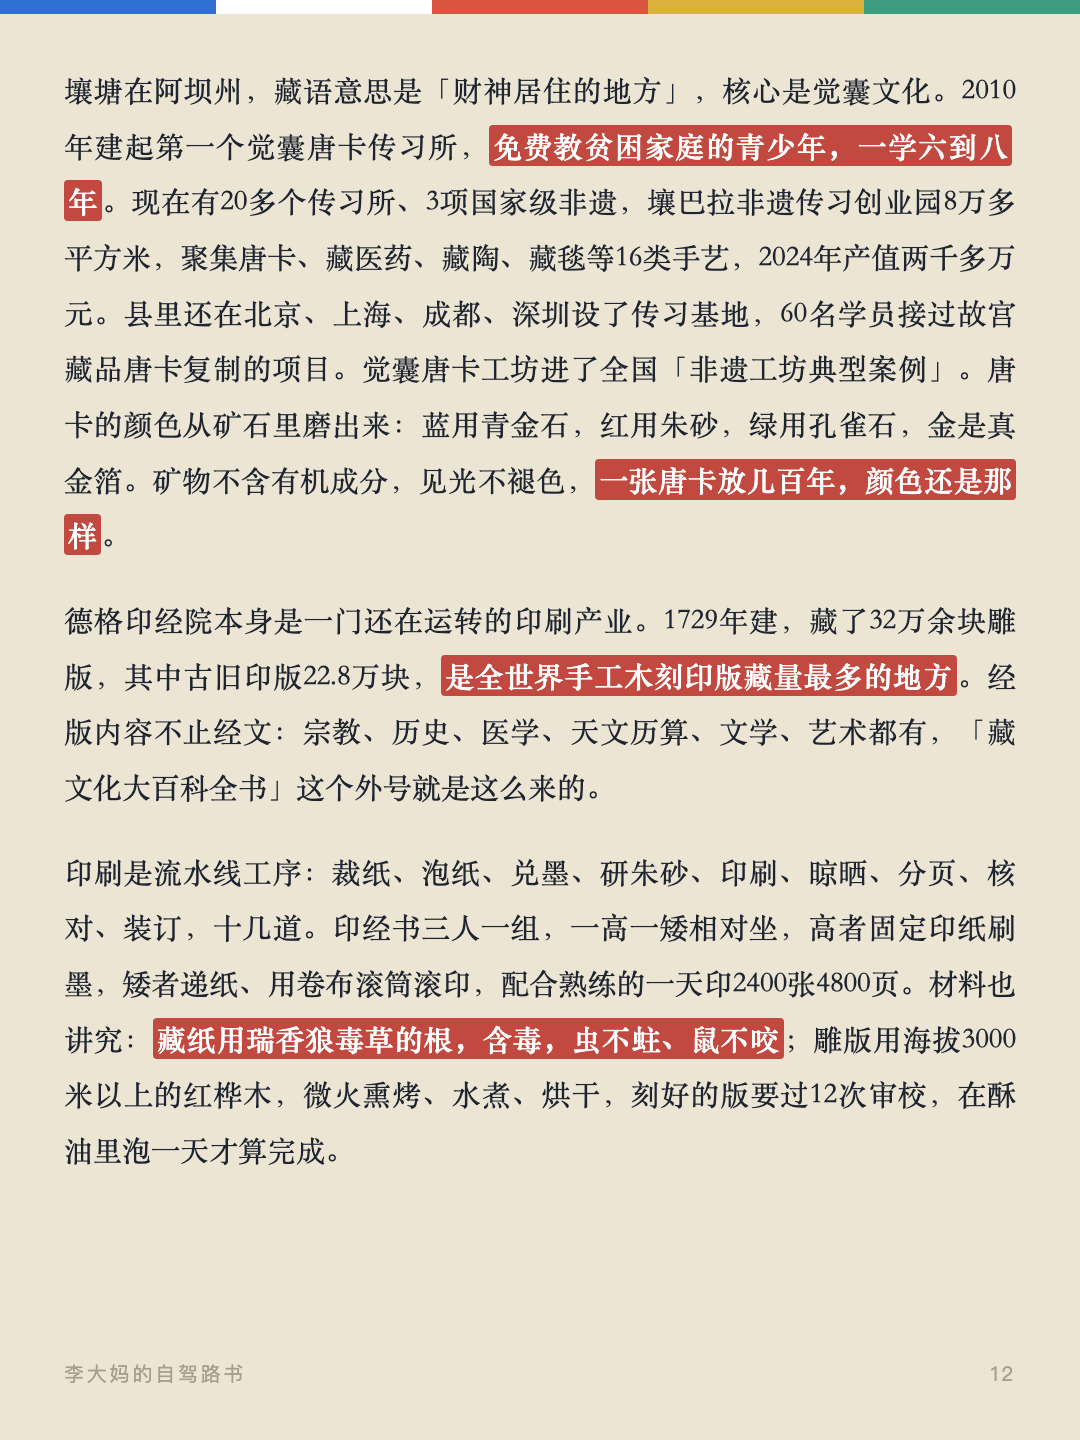
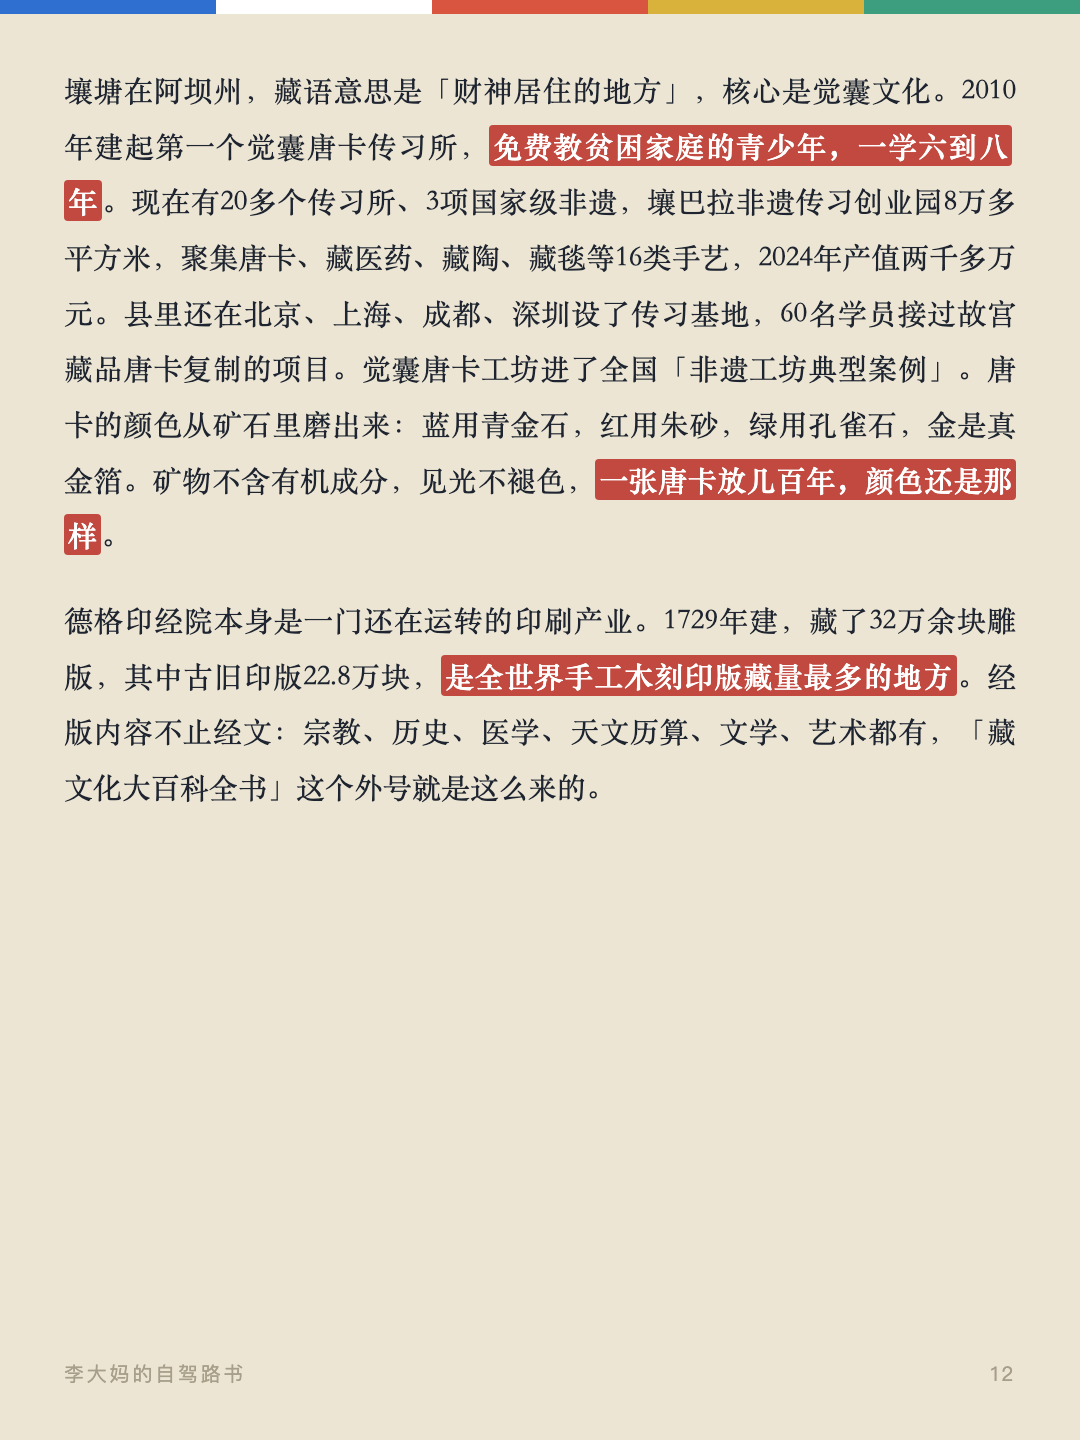
card-12/13均衡分页(印刷流水线段挪至13页)；meta精简并加官方信息提示

Changed region(s): [[0.0611, 0.5938, 0.9472, 0.8125]]

diff --git a/cards.html b/cards.html
@@ -121,7 +121,7 @@
 </head>
 <body>
 
-<div class="card" id="card1"><div class="flag" aria-hidden="true"><span style="background:var(--flag-blue)"></span><span style="background:var(--flag-white)"></span><span style="background:var(--flag-red)"></span><span style="background:var(--flag-yellow)"></span><span style="background:var(--flag-green)"></span></div><div class="card__inner"><div class="card__kicker">李大妈的自驾路书</div><h1><strong>川西自驾行前笔记</strong></h1><p class="card__intro">川西自驾是一门功课：海拔怎么排、山河怎么切、车怎么开、信仰怎么认、手艺在哪儿、房子为什么长这样。</p><p class="card__meta">我习惯在行前把零碎信息检索、整理成笔记，当出行线索。笔记更新于2026年8月18日。封路、天气、信号等信息随季节变化，出发前以官方信息为准。</p><h2>开篇　六章速览</h2><ul class="card__keys"><li><span>海拔决定秩序</span><strong>一 高原的秩序</strong></li> <li><span>山河决定地图</span><strong>二 山河的地图</strong></li> <li><span>车是腿，慢是快</span><strong>三 路上的驾驶学</strong></li> <li><span>看墙色认教派</span><strong>四 信仰的世界</strong></li> <li><span>手艺是还在运转的产业</span><strong>五 手艺的文明</strong></li> <li><span>材料决定房子</span><strong>六 建筑的方言</strong></li></ul><div class="card__foot"><span></span><span class="foot-flag" aria-hidden="true"><span style="background:var(--flag-blue)"></span><span style="background:var(--flag-white)"></span><span style="background:var(--flag-red)"></span><span style="background:var(--flag-yellow)"></span><span style="background:var(--flag-green)"></span></span><span>01</span></div></div></div>
+<div class="card" id="card1"><div class="flag" aria-hidden="true"><span style="background:var(--flag-blue)"></span><span style="background:var(--flag-white)"></span><span style="background:var(--flag-red)"></span><span style="background:var(--flag-yellow)"></span><span style="background:var(--flag-green)"></span></div><div class="card__inner"><div class="card__kicker">李大妈的自驾路书</div><h1><strong>川西自驾行前笔记</strong></h1><p class="card__intro">川西自驾是一门功课：海拔怎么排、山河怎么切、车怎么开、信仰怎么认、手艺在哪儿、房子为什么长这样。</p><p class="card__meta">我习惯在行前把零碎信息整理成笔记，当作出行线索。笔记更新于2026年8月18日。天气、封路、营业时间等信息随季节变化，出发前应再次查询官方信息。</p><h2>开篇　六章速览</h2><ul class="card__keys"><li><span>海拔决定秩序</span><strong>一 高原的秩序</strong></li> <li><span>山河决定地图</span><strong>二 山河的地图</strong></li> <li><span>车是腿，慢是快</span><strong>三 路上的驾驶学</strong></li> <li><span>看墙色认教派</span><strong>四 信仰的世界</strong></li> <li><span>手艺是还在运转的产业</span><strong>五 手艺的文明</strong></li> <li><span>材料决定房子</span><strong>六 建筑的方言</strong></li></ul><div class="card__foot"><span></span><span class="foot-flag" aria-hidden="true"><span style="background:var(--flag-blue)"></span><span style="background:var(--flag-white)"></span><span style="background:var(--flag-red)"></span><span style="background:var(--flag-yellow)"></span><span style="background:var(--flag-green)"></span></span><span>01</span></div></div></div>
 
 <div class="card" id="card2"><div class="flag" aria-hidden="true"><span style="background:var(--flag-blue)"></span><span style="background:var(--flag-white)"></span><span style="background:var(--flag-red)"></span><span style="background:var(--flag-yellow)"></span><span style="background:var(--flag-green)"></span></div><div class="card__inner"><h3>与人相处</h3><p><strong>牧民。</strong> 牛羊是牧民的主要家当。遇到牧群，放慢车速、不鸣笛，等它们过。拍牧民和牲畜，先打招呼再举相机。牧场的帐篷和围栏，不随便进。</p><p><strong>匠人。</strong> 进工坊先问能不能看，问手艺、问工序，匠人愿意聊就聊。工具和材料不上手碰。买现货，半成品和机压仿品不碰。</p><p><strong>僧侣。</strong> 称呼用「师父」或「上师」。进大殿脱帽、轻声、顺时针走，不拍照、不指佛像。法会时安静看，不打断、不围观起哄。</p><p><strong>司机和本地人。</strong> 见面一句「扎西德勒」，气氛就开了。问路、问价，态度客气，多数人都愿意答。高原上的人大多直接，不绕弯，打交道也直接。</p><p><strong>买东西。</strong> 讲好价就认，不反复缠价。看上了再还价，压完不买最伤和气。</p><p><strong>拍照。</strong> 拍人先问，拍寺院内部和法会先看有没有禁令。相机镜头对着人的时候，先问一句，多数人会同意的。</p><div class="card__foot"><span>李大妈的自驾路书</span><span>02</span></div></div></div>
 
@@ -143,9 +143,9 @@
 
 <div class="card" id="card11"><div class="flag" aria-hidden="true"><span style="background:var(--flag-blue)"></span><span style="background:var(--flag-white)"></span><span style="background:var(--flag-red)"></span><span style="background:var(--flag-yellow)"></span><span style="background:var(--flag-green)"></span></div><div class="card__inner"><h2>手艺的文明</h2><p class="card__lead">还在挣钱的传承，才是活传承。</p><p>麦宿在德格县金沙江东岸的河谷里，六千多居民有两千多位工匠，分布在三十多个工坊，做十六种手工艺。黑陶、铜铸、唐卡、木雕、藏香、藏纸、藏戏面具、金银加工、牛羊毛编织，被称为「中国藏族传统手工艺之乡」。<strong>它不是摆在展柜里的「非遗秀」</strong>。寺庙要佛像法器，本地人过日子要锅碗和经堂装饰，订单一直不断。麦宿进出不易，外头的东西不好运进来，要用的、要供的都得自己做，手艺就一代代传了下来。最出名的铜铸佛像，老匠人夏雷尼玛的鎏金铜是内地近乎失传的古法，他做的佛像因为工艺古朴精良，常被人冒充古董倒卖，甚至流到了国外。他女儿拍的《麦宿泥塑》纪录片，拿过国际手工艺视频大赛的一等奖。钦乐工坊还在用砂模、失蜡法铸利玛铜。后来县里建了扶贫车间，挂出「麦宿手造」的品牌，2024年还到成都开了集市。从一块铜皮到一尊佛像，工坊里能看到整套流程。手工工坊有现货，机压翻模的是仿品。</p><p>白玉河坡号称「格萨尔王的兵器库」，1300多年前就开始铸兵器，现在是国家级非遗「藏族金属锻造技艺」的代表，白玉藏刀最有名。13个行政村、230多家非遗工坊，<strong>是全国最大的藏族金属锻造群落</strong>，年订单超过1200万元。2025年8月，河坡手工艺文旅体融合园区开园，建了藏族金工博物馆。</p><div class="card__foot"><span>李大妈的自驾路书</span><span>11</span></div></div></div>
 
-<div class="card" id="card12"><div class="flag" aria-hidden="true"><span style="background:var(--flag-blue)"></span><span style="background:var(--flag-white)"></span><span style="background:var(--flag-red)"></span><span style="background:var(--flag-yellow)"></span><span style="background:var(--flag-green)"></span></div><div class="card__inner"><p>壤塘在阿坝州，藏语意思是「财神居住的地方」，核心是觉囊文化。2010年建起第一个觉囊唐卡传习所，<strong>免费教贫困家庭的青少年，一学六到八年</strong>。现在有20多个传习所、3项国家级非遗，壤巴拉非遗传习创业园8万多平方米，聚集唐卡、藏医药、藏陶、藏毯等16类手艺，2024年产值两千多万元。县里还在北京、上海、成都、深圳设了传习基地，60名学员接过故宫藏品唐卡复制的项目。觉囊唐卡工坊进了全国「非遗工坊典型案例」。唐卡的颜色从矿石里磨出来：蓝用青金石，红用朱砂，绿用孔雀石，金是真金箔。矿物不含有机成分，见光不褪色，<strong>一张唐卡放几百年，颜色还是那样</strong>。</p><p>德格印经院本身是一门还在运转的印刷产业。1729年建，藏了32万余块雕版，其中古旧印版22.8万块，<strong>是全世界手工木刻印版藏量最多的地方</strong>。经版内容不止经文：宗教、历史、医学、天文历算、文学、艺术都有，「藏文化大百科全书」这个外号就是这么来的。</p><p>印刷是流水线工序：裁纸、泡纸、兑墨、研朱砂、印刷、晾晒、分页、核对、装订，十几道。印经书三人一组，一高一矮相对坐，高者固定印纸刷墨，矮者递纸、用卷布滚筒滚印，配合熟练的一天印2400张4800页。材料也讲究：<strong>藏纸用瑞香狼毒草的根，含毒，虫不蛀、鼠不咬</strong>；雕版用海拔3000米以上的红桦木，微火熏烤、水煮、烘干，刻好的版要过12次审校，在酥油里泡一天才算完成。</p><div class="card__foot"><span>李大妈的自驾路书</span><span>12</span></div></div></div>
+<div class="card" id="card12"><div class="flag" aria-hidden="true"><span style="background:var(--flag-blue)"></span><span style="background:var(--flag-white)"></span><span style="background:var(--flag-red)"></span><span style="background:var(--flag-yellow)"></span><span style="background:var(--flag-green)"></span></div><div class="card__inner"><p>壤塘在阿坝州，藏语意思是「财神居住的地方」，核心是觉囊文化。2010年建起第一个觉囊唐卡传习所，<strong>免费教贫困家庭的青少年，一学六到八年</strong>。现在有20多个传习所、3项国家级非遗，壤巴拉非遗传习创业园8万多平方米，聚集唐卡、藏医药、藏陶、藏毯等16类手艺，2024年产值两千多万元。县里还在北京、上海、成都、深圳设了传习基地，60名学员接过故宫藏品唐卡复制的项目。觉囊唐卡工坊进了全国「非遗工坊典型案例」。唐卡的颜色从矿石里磨出来：蓝用青金石，红用朱砂，绿用孔雀石，金是真金箔。矿物不含有机成分，见光不褪色，<strong>一张唐卡放几百年，颜色还是那样</strong>。</p><p>德格印经院本身是一门还在运转的印刷产业。1729年建，藏了32万余块雕版，其中古旧印版22.8万块，<strong>是全世界手工木刻印版藏量最多的地方</strong>。经版内容不止经文：宗教、历史、医学、天文历算、文学、艺术都有，「藏文化大百科全书」这个外号就是这么来的。</p><div class="card__foot"><span>李大妈的自驾路书</span><span>12</span></div></div></div>
 
-<div class="card" id="card13"><div class="flag" aria-hidden="true"><span style="background:var(--flag-blue)"></span><span style="background:var(--flag-white)"></span><span style="background:var(--flag-red)"></span><span style="background:var(--flag-yellow)"></span><span style="background:var(--flag-green)"></span></div><div class="card__inner"><p><strong>印经院至今没通电</strong>，是怕火险伤经版，游客就着天光看印刷间。古旧经版现在限量印刷，近十年复刻了2.2万余块新版供印，古版封存，印版修复每年补刻230余块。2006年它进了国家级非遗，2009年被联合国教科文组织列入人类非物质文化遗产代表作名录。</p><div class="card__foot"><span>李大妈的自驾路书</span><span>13</span></div></div></div>
+<div class="card" id="card13"><div class="flag" aria-hidden="true"><span style="background:var(--flag-blue)"></span><span style="background:var(--flag-white)"></span><span style="background:var(--flag-red)"></span><span style="background:var(--flag-yellow)"></span><span style="background:var(--flag-green)"></span></div><div class="card__inner"><p>印刷是流水线工序：裁纸、泡纸、兑墨、研朱砂、印刷、晾晒、分页、核对、装订，十几道。印经书三人一组，一高一矮相对坐，高者固定印纸刷墨，矮者递纸、用卷布滚筒滚印，配合熟练的一天印2400张4800页。材料也讲究：<strong>藏纸用瑞香狼毒草的根，含毒，虫不蛀、鼠不咬</strong>；雕版用海拔3000米以上的红桦木，微火熏烤、水煮、烘干，刻好的版要过12次审校，在酥油里泡一天才算完成。</p><p><strong>印经院至今没通电</strong>，是怕火险伤经版，游客就着天光看印刷间。古旧经版现在限量印刷，近十年复刻了2.2万余块新版供印，古版封存，印版修复每年补刻230余块。2006年它进了国家级非遗，2009年被联合国教科文组织列入人类非物质文化遗产代表作名录。</p><div class="card__foot"><span>李大妈的自驾路书</span><span>13</span></div></div></div>
 
 <div class="card" id="card14"><div class="flag" aria-hidden="true"><span style="background:var(--flag-blue)"></span><span style="background:var(--flag-white)"></span><span style="background:var(--flag-red)"></span><span style="background:var(--flag-yellow)"></span><span style="background:var(--flag-green)"></span></div><div class="card__inner"><h2>建筑的方言</h2><p class="card__lead">材料决定房子。</p><p>川西的民居，藏寨是主流。石、木、土，山上出什么料就盖什么房，材料定了骨架，骨架定了长相。</p><p>嘉绒藏寨与古碉，在丹巴一带最出名。石木结构，片石砌墙，房子依山势叠在山坡上，顶层外缘围一圈黄、黑、白三色带。甲居藏寨评上「中国最美的六大乡村古镇」之首，中路藏寨海拔2100米。丹巴古碉鼎盛时号称「千碉之国」，梭坡乡的古碉群，<strong>是全世界古碉最密集的地方</strong>。碉楼按功能分要隘碉、烽火碉、寨碉、家碉四类，还分雌雄。</p><p>藏寨的结构，从下到上一条线。以甲居藏寨为例，石木结构，三到四层，各层逐层内收，顶上留出晒粮平台。底层圈养牲畜兼做仓库，畜圈的门和人进出的门分开；二层是锅庄火塘、厨房和客堂，一家人围着火塘吃饭说话，是日常生活的中心；三层住人；顶层是经堂，全楼装饰最华美、画满壁画，长者交出管家权后在这里吃斋念经，办婚丧嫁娶时做法事的喇嘛也暂住这层。屋顶四角各凸起一个白石塔，代表山、树、水、地四方神灵，上插经幡；楼沿中间有煨桑炉，有大事时点柏枝祭神。<strong>从牲畜到人再到神，楼层越往上，越靠近精神世界。</strong>层与层之间用独木梯上下。</p><div class="card__foot"><span>李大妈的自驾路书</span><span>14</span></div></div></div>
 

diff --git a/index.html b/index.html
@@ -181,7 +181,7 @@
     <div class="hero__kicker">李大妈的自驾路书</div>
     <h1><strong>川西自驾行前笔记</strong></h1>
     <p class="hero__intro">川西自驾是一门功课：海拔怎么排、山河怎么切、车怎么开、信仰怎么认、手艺在哪儿、房子为什么长这样。</p>
-    <p class="hero__meta">我习惯在行前把零碎信息检索、整理成笔记，当出行线索。笔记更新于2026年8月18日。封路、天气、信号等信息随季节变化，出发前以官方信息为准。</p>
+    <p class="hero__meta">我习惯在行前把零碎信息整理成笔记，当作出行线索。笔记更新于2026年8月18日。天气、封路、营业时间等信息随季节变化，出发前应再次查询官方信息。</p>
     <div class="flag" aria-hidden="true"><span class="b"></span><span class="w"></span><span class="r"></span><span class="y"></span><span class="g"></span></div>
     <nav class="nav" aria-label="章节跳转">
       <a href="#key">开篇</a>

diff --git a/gen_cards.py b/gen_cards.py
@@ -19,7 +19,7 @@ PAGE1 = [
   ('kicker', '李大妈的自驾路书'),
   ('h1', '<strong>川西自驾行前笔记</strong>'),
   ('intro', '川西自驾是一门功课：海拔怎么排、山河怎么切、车怎么开、信仰怎么认、手艺在哪儿、房子为什么长这样。'),
-  ('meta', '我习惯在行前把零碎信息检索、整理成笔记，当出行线索。笔记更新于2026年8月18日。封路、天气、信号等信息随季节变化，出发前以官方信息为准。'),
+  ('meta', '我习惯在行前把零碎信息整理成笔记，当作出行线索。笔记更新于2026年8月18日。天气、封路、营业时间等信息随季节变化，出发前应再次查询官方信息。'),
   ('h2', '开篇\u3000六章速览'),
   ('keys', KEYS),
 ]
@@ -74,6 +74,7 @@ BODY_STREAM = [
   ('p', '白玉河坡号称「格萨尔王的兵器库」，1300多年前就开始铸兵器，现在是国家级非遗「藏族金属锻造技艺」的代表，白玉藏刀最有名。13个行政村、230多家非遗工坊，<strong>是全国最大的藏族金属锻造群落</strong>，年订单超过1200万元。2025年8月，河坡手工艺文旅体融合园区开园，建了藏族金工博物馆。'),
   ('p', '壤塘在阿坝州，藏语意思是「财神居住的地方」，核心是觉囊文化。2010年建起第一个觉囊唐卡传习所，<strong>免费教贫困家庭的青少年，一学六到八年</strong>。现在有20多个传习所、3项国家级非遗，壤巴拉非遗传习创业园8万多平方米，聚集唐卡、藏医药、藏陶、藏毯等16类手艺，2024年产值两千多万元。县里还在北京、上海、成都、深圳设了传习基地，60名学员接过故宫藏品唐卡复制的项目。觉囊唐卡工坊进了全国「非遗工坊典型案例」。唐卡的颜色从矿石里磨出来：蓝用青金石，红用朱砂，绿用孔雀石，金是真金箔。矿物不含有机成分，见光不褪色，<strong>一张唐卡放几百年，颜色还是那样</strong>。'),
   ('p', '德格印经院本身是一门还在运转的印刷产业。1729年建，藏了32万余块雕版，其中古旧印版22.8万块，<strong>是全世界手工木刻印版藏量最多的地方</strong>。经版内容不止经文：宗教、历史、医学、天文历算、文学、艺术都有，「藏文化大百科全书」这个外号就是这么来的。'),
+  ('pb', ''),
   ('p', '印刷是流水线工序：裁纸、泡纸、兑墨、研朱砂、印刷、晾晒、分页、核对、装订，十几道。印经书三人一组，一高一矮相对坐，高者固定印纸刷墨，矮者递纸、用卷布滚筒滚印，配合熟练的一天印2400张4800页。材料也讲究：<strong>藏纸用瑞香狼毒草的根，含毒，虫不蛀、鼠不咬</strong>；雕版用海拔3000米以上的红桦木，微火熏烤、水煮、烘干，刻好的版要过12次审校，在酥油里泡一天才算完成。'),
   ('p', '<strong>印经院至今没通电</strong>，是怕火险伤经版，游客就着天光看印刷间。古旧经版现在限量印刷，近十年复刻了2.2万余块新版供印，古版封存，印版修复每年补刻230余块。2006年它进了国家级非遗，2009年被联合国教科文组织列入人类非物质文化遗产代表作名录。'),
   ('h2', '建筑的方言'),
@@ -256,6 +257,8 @@ def block_height(kind, html):
         return math.ceil(len(t) / 31) * 57 + 28  # 30px×1.9，内容区去掉左边竖线留白
     if kind == 'keys':
         return 524  # 6 项 × 77 + 上下 margin 62
+    if kind == 'pb':
+        return 0  # 手动分页标记，不占高度
     if kind in ('list', 'cwords'):
         pad = 16 if kind == 'list' else 14
         items = re.findall(r'<li>(.*?)</li>', html, re.S)
@@ -275,6 +278,13 @@ def partition(stream, H):
     while i < n:
         kind, html = stream[i]
         bh = block_height(kind, html)
+        if kind == 'pb':
+            if cur:
+                pages.append(cur)
+                cur = []
+                cur_h = 0
+            i += 1
+            continue
         if kind == 'h2':
             if cur:
                 pages.append(cur)
